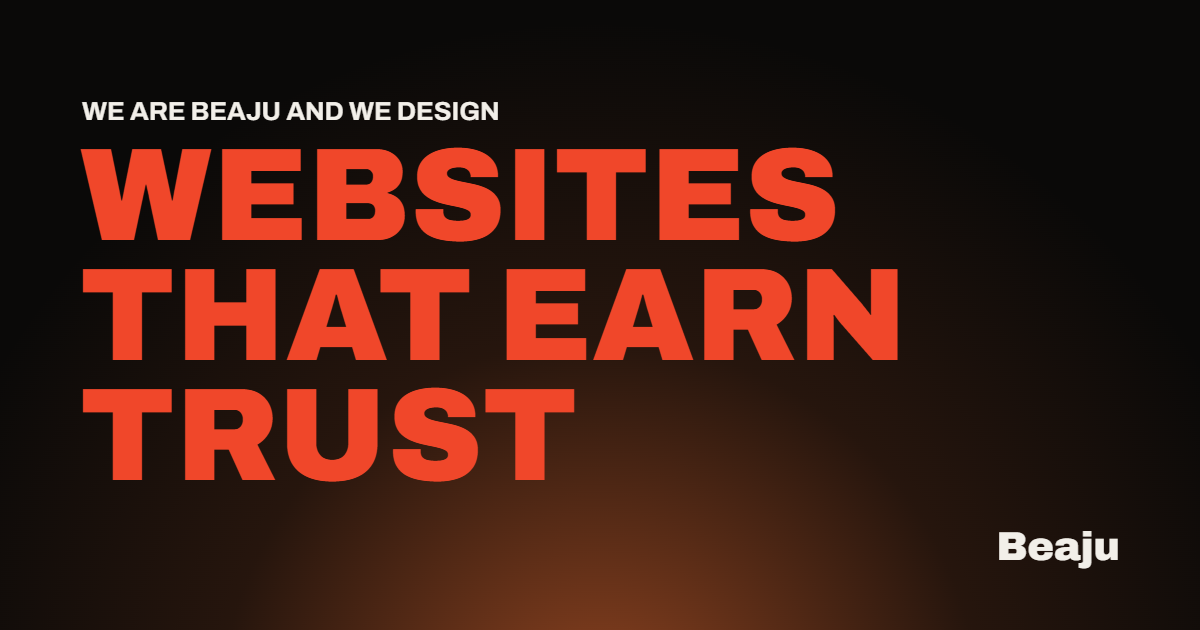
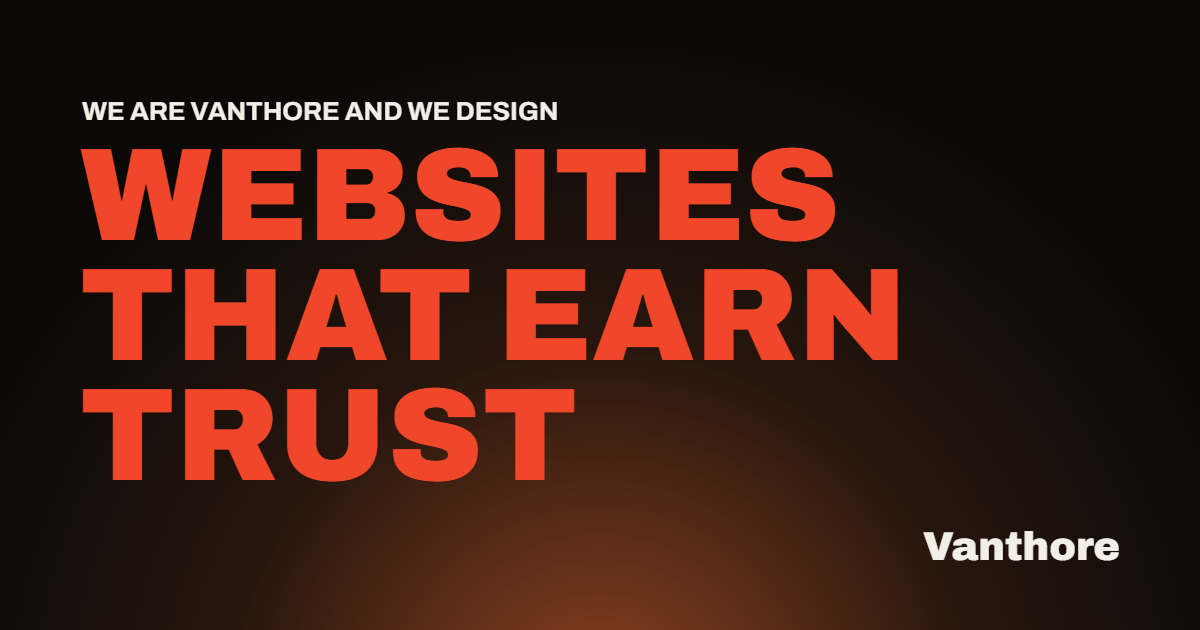
Rebrand Beaju to Vanthore
Renames the studio across all copy, all four locales, metadata and contact
details, and regenerates the social preview image (the old name was baked into
those pixels, so a text find-and-replace could not reach it).

- brand name in EN/LT/RU/PL locales, FAQ bank and README
- hello@beaju.com -> hello@vanthore.com
- beaju.com -> vanthore.com (title, description, canonical, OG/Twitter tags)
- instagram.com/beaju.studio -> instagram.com/vanthore.studio
- localStorage key beaju:lang -> vanthore:lang (resets saved language once)
- public/og-image.png regenerated with the new wordmark

Changed region(s): [[0.1542, 0.1508, 0.4625, 0.2111], [0.7708, 0.8444, 0.925, 0.9048]]

diff --git a/src/i18n/locales/ru.js b/src/i18n/locales/ru.js
@@ -13,15 +13,15 @@ export default {
   htmlLang: 'ru',
 
   meta: {
-    title: 'BEAJU — Премиальные сайты, написанные вручную',
+    title: 'VANTHORE — Премиальные сайты, написанные вручную',
     description:
-      'Beaju проектирует и вручную пишет премиальные сайты, которые быстро загружаются, выглядят дорого и вызывают доверие с первой секунды.',
+      'Vanthore проектирует и вручную пишет премиальные сайты, которые быстро загружаются, выглядят дорого и вызывают доверие с первой секунды.',
   },
 
   nav: { works: 'Работы', about: 'О нас', contact: 'Контакты' },
 
   hero: {
-    eyebrow: 'Мы Beaju, и мы создаём',
+    eyebrow: 'Мы Vanthore, и мы создаём',
     lines: ['Сайты', 'которые', 'вызывают доверие'],
     aria: 'Сайты, которые вызывают доверие',
   },
@@ -89,7 +89,7 @@ export default {
 
   about: {
     title: 'О нас',
-    lead: 'Уже три года Beaju проектирует и вручную пишет премиальные сайты, благодаря которым компании выглядят серьёзно: понятные, быстрые и сделанные осознанно. Мы делаем одно дело на высшем уровне и ничего больше. Именно поэтому результат лучше.',
+    lead: 'Уже три года Vanthore проектирует и вручную пишет премиальные сайты, благодаря которым компании выглядят серьёзно: понятные, быстрые и сделанные осознанно. Мы делаем одно дело на высшем уровне и ничего больше. Именно поэтому результат лучше.',
     years: 'Года опыта',
     projects: 'Проектов сдано',
     portrait: 'Портрет',
@@ -166,7 +166,7 @@ export default {
     cta: 'Записаться на 20-минутный звонок',
     ctaSubject: 'Запись на 20-минутный звонок',
     instagram: 'Instagram',
-    rights: '© 2026 Beaju · Все права защищены',
+    rights: '© 2026 Vanthore · Все права защищены',
     tagline: 'Пишем вручную. Никаких шаблонов.',
     privacy: 'Конфиденциальность',
     imprint: 'Реквизиты',
@@ -174,11 +174,11 @@ export default {
     close: 'Закрыть',
     privacyBody: [
       'Мы используем присланные вами данные (email и, если указан, телефон) только чтобы ответить на ваш запрос. Мы не продаём данные и не используем сторонние рекламные трекеры на этом сайте.',
-      'Чтобы узнать, какие данные мы храним, или попросить их удалить, напишите на hello@beaju.com.',
+      'Чтобы узнать, какие данные мы храним, или попросить их удалить, напишите на hello@vanthore.com.',
     ],
     privacyNote:
       'Временный текст — замените на согласованную политику конфиденциальности до запуска.',
-    imprintBody: 'Beaju — независимая веб-студия.',
+    imprintBody: 'Vanthore — независимая веб-студия.',
     imprintDetails: '[Название компании, регистрационный номер и адрес]',
     imprintNote:
       'Временный текст — добавьте реальные регистрационные данные до запуска.',

diff --git a/src/i18n/locales/lt.js b/src/i18n/locales/lt.js
@@ -14,15 +14,15 @@ export default {
   htmlLang: 'lt',
 
   meta: {
-    title: 'BEAJU — Ranka koduojamos premium svetainės',
+    title: 'VANTHORE — Ranka koduojamos premium svetainės',
     description:
-      'Beaju kuria ir ranka koduoja premium svetaines, kurios greitai kraunasi, atrodo brangiai ir pelno pasitikėjimą nuo pirmos sekundės.',
+      'Vanthore kuria ir ranka koduoja premium svetaines, kurios greitai kraunasi, atrodo brangiai ir pelno pasitikėjimą nuo pirmos sekundės.',
   },
 
   nav: { works: 'Darbai', about: 'Apie', contact: 'Kontaktai' },
 
   hero: {
-    eyebrow: 'Mes esame Beaju ir mes kuriame',
+    eyebrow: 'Mes esame Vanthore ir mes kuriame',
     lines: ['Svetaines', 'kurios pelno', 'pasitikėjimą'],
     aria: 'Svetaines, kurios pelno pasitikėjimą',
   },
@@ -90,7 +90,7 @@ export default {
 
   about: {
     title: 'Apie mus',
-    lead: 'Jau trejus metus Beaju kuria ir ranka koduoja premium svetaines, dėl kurių įmonės atrodo rimtai: intuityvias, greitas ir sukurtas su aiškiu tikslu. Darome vieną dalyką aukščiausiu lygiu ir nieko daugiau. Būtent dėl to darbas yra geresnis.',
+    lead: 'Jau trejus metus Vanthore kuria ir ranka koduoja premium svetaines, dėl kurių įmonės atrodo rimtai: intuityvias, greitas ir sukurtas su aiškiu tikslu. Darome vieną dalyką aukščiausiu lygiu ir nieko daugiau. Būtent dėl to darbas yra geresnis.',
     years: 'Metai patirties',
     projects: 'Įgyvendinti projektai',
     portrait: 'Portretas',
@@ -167,7 +167,7 @@ export default {
     cta: 'Rezervuoti 20 min. pokalbį',
     ctaSubject: '20 minučių pokalbio rezervacija',
     instagram: 'Instagram',
-    rights: '© 2026 Beaju · Visos teisės saugomos',
+    rights: '© 2026 Vanthore · Visos teisės saugomos',
     tagline: 'Koduojame ranka. Jokių šablonų.',
     privacy: 'Privatumas',
     imprint: 'Rekvizitai',
@@ -175,11 +175,11 @@ export default {
     close: 'Uždaryti',
     privacyBody: [
       'Jūsų atsiųstus duomenis (el. paštą ir, jei nurodėte, telefono numerį) naudojame tik tam, kad atsakytume į jūsų užklausą. Duomenų neparduodame ir šioje svetainėje nenaudojame trečiųjų šalių reklamos sekimo įrankių.',
-      'Norėdami sužinoti, kokius duomenis turime, arba paprašyti juos ištrinti, rašykite hello@beaju.com.',
+      'Norėdami sužinoti, kokius duomenis turime, arba paprašyti juos ištrinti, rašykite hello@vanthore.com.',
     ],
     privacyNote:
       'Laikinas tekstas — prieš paleidimą pakeiskite savo patvirtinta privatumo politika.',
-    imprintBody: 'Beaju — nepriklausoma interneto svetainių studija.',
+    imprintBody: 'Vanthore — nepriklausoma interneto svetainių studija.',
     imprintDetails: '[Registruotas įmonės pavadinimas, kodas ir adresas]',
     imprintNote:
       'Laikinas tekstas — prieš paleidimą įrašykite tikrus įmonės registracijos duomenis.',

diff --git a/src/i18n/locales/pl.js b/src/i18n/locales/pl.js
@@ -13,15 +13,15 @@ export default {
   htmlLang: 'pl',
 
   meta: {
-    title: 'BEAJU — Premium strony pisane ręcznie',
+    title: 'VANTHORE — Premium strony pisane ręcznie',
     description:
-      'Beaju projektuje i ręcznie koduje premium strony, które ładują się błyskawicznie, wyglądają drogo i budują zaufanie od pierwszej sekundy.',
+      'Vanthore projektuje i ręcznie koduje premium strony, które ładują się błyskawicznie, wyglądają drogo i budują zaufanie od pierwszej sekundy.',
   },
 
   nav: { works: 'Realizacje', about: 'O nas', contact: 'Kontakt' },
 
   hero: {
-    eyebrow: 'Jesteśmy Beaju i projektujemy',
+    eyebrow: 'Jesteśmy Vanthore i projektujemy',
     lines: ['Strony', 'które budują', 'zaufanie'],
     aria: 'Strony, które budują zaufanie',
   },
@@ -89,7 +89,7 @@ export default {
 
   about: {
     title: 'O nas',
-    lead: 'Od trzech lat Beaju projektuje i ręcznie koduje premium strony, dzięki którym firmy wyglądają poważnie: intuicyjne, szybkie i tworzone z intencją. Robimy jedną rzecz na najwyższym poziomie i nic poza tym. Właśnie dlatego efekt jest lepszy.',
+    lead: 'Od trzech lat Vanthore projektuje i ręcznie koduje premium strony, dzięki którym firmy wyglądają poważnie: intuicyjne, szybkie i tworzone z intencją. Robimy jedną rzecz na najwyższym poziomie i nic poza tym. Właśnie dlatego efekt jest lepszy.',
     years: 'Lata doświadczenia',
     projects: 'Zrealizowanych projektów',
     portrait: 'Portret',
@@ -166,7 +166,7 @@ export default {
     cta: 'Umów 20-minutową rozmowę',
     ctaSubject: 'Rezerwacja 20-minutowej rozmowy',
     instagram: 'Instagram',
-    rights: '© 2026 Beaju · Wszelkie prawa zastrzeżone',
+    rights: '© 2026 Vanthore · Wszelkie prawa zastrzeżone',
     tagline: 'Kodowane ręcznie. Nigdy z szablonu.',
     privacy: 'Prywatność',
     imprint: 'Dane firmy',
@@ -174,11 +174,11 @@ export default {
     close: 'Zamknij',
     privacyBody: [
       'Dane, które nam wysyłasz (e-mail i, jeśli podasz, numer telefonu), wykorzystujemy wyłącznie do odpowiedzi na Twoje zapytanie. Nie sprzedajemy danych i nie używamy na tej stronie zewnętrznych trackerów reklamowych.',
-      'Aby dowiedzieć się, jakie dane przechowujemy, lub poprosić o ich usunięcie, napisz na hello@beaju.com.',
+      'Aby dowiedzieć się, jakie dane przechowujemy, lub poprosić o ich usunięcie, napisz na hello@vanthore.com.',
     ],
     privacyNote:
       'Tekst tymczasowy — przed startem zastąp go zatwierdzoną polityką prywatności.',
-    imprintBody: 'Beaju — niezależne studio webowe.',
+    imprintBody: 'Vanthore — niezależne studio webowe.',
     imprintDetails: '[Nazwa firmy, numer rejestrowy i adres]',
     imprintNote:
       'Tekst tymczasowy — przed startem dodaj prawdziwe dane rejestrowe firmy.',

diff --git a/src/i18n/locales/en.js b/src/i18n/locales/en.js
@@ -5,15 +5,15 @@ export default {
   htmlLang: 'en',
 
   meta: {
-    title: 'BEAJU — Hand-Coded Premium Websites',
+    title: 'VANTHORE — Hand-Coded Premium Websites',
     description:
-      'Beaju designs and hand-codes premium websites that load fast, feel premium, and earn trust from the first second.',
+      'Vanthore designs and hand-codes premium websites that load fast, feel premium, and earn trust from the first second.',
   },
 
   nav: { works: 'Works', about: 'About', contact: 'Contact' },
 
   hero: {
-    eyebrow: 'We are Beaju and we design',
+    eyebrow: 'We are Vanthore and we design',
     lines: ['Websites', 'that earn', 'trust'],
     aria: 'Websites that earn trust',
   },
@@ -75,7 +75,7 @@ export default {
 
   about: {
     title: 'About Us',
-    lead: 'For three years, Beaju has designed and hand-coded premium websites that make companies look serious: intuitive, fast, and built with intent. We do one thing at the highest level, and nothing else. That focus is exactly why the work is better.',
+    lead: 'For three years, Vanthore has designed and hand-coded premium websites that make companies look serious: intuitive, fast, and built with intent. We do one thing at the highest level, and nothing else. That focus is exactly why the work is better.',
     years: 'Years of Experience',
     projects: 'Projects Delivered',
     portrait: 'Portrait',
@@ -152,7 +152,7 @@ export default {
     cta: 'Book a 20-minute call',
     ctaSubject: 'Booking a 20-minute call',
     instagram: 'Instagram',
-    rights: '© 2026 Beaju · All rights reserved',
+    rights: '© 2026 Vanthore · All rights reserved',
     tagline: 'Hand-coded, never templated.',
     privacy: 'Privacy',
     imprint: 'Imprint',
@@ -160,11 +160,11 @@ export default {
     close: 'Close',
     privacyBody: [
       'We only use the details you send us (your email and, if provided, your phone number) to reply to your enquiry. We do not sell your data and we don’t run third-party advertising trackers on this site.',
-      'To ask what we hold or request deletion, email hello@beaju.com.',
+      'To ask what we hold or request deletion, email hello@vanthore.com.',
     ],
     privacyNote:
       'Placeholder text — replace with your reviewed privacy policy before launch.',
-    imprintBody: 'Beaju — independent web studio.',
+    imprintBody: 'Vanthore — independent web studio.',
     imprintDetails: '[Registered company name, number & address]',
     imprintNote:
       'Placeholder — add your real business/registration details before launch.',

diff --git a/index.html b/index.html
@@ -3,25 +3,25 @@
   <head>
     <meta charset="UTF-8" />
     <meta name="viewport" content="width=device-width, initial-scale=1.0" />
-    <title>BEAJU — Hand-Coded Premium Websites</title>
-    <meta name="description" content="Beaju designs and hand-codes premium websites that load fast, feel premium, and earn trust from the first second." />
-    <link rel="canonical" href="https://beaju.com/" />
+    <title>VANTHORE — Hand-Coded Premium Websites</title>
+    <meta name="description" content="Vanthore designs and hand-codes premium websites that load fast, feel premium, and earn trust from the first second." />
+    <link rel="canonical" href="https://vanthore.com/" />
 
     <!-- Open Graph / social sharing (update the URL/image host once deployed) -->
     <meta property="og:type" content="website" />
-    <meta property="og:site_name" content="Beaju" />
-    <meta property="og:title" content="BEAJU — Hand-Coded Premium Websites" />
+    <meta property="og:site_name" content="Vanthore" />
+    <meta property="og:title" content="VANTHORE — Hand-Coded Premium Websites" />
     <meta property="og:description" content="We design and hand-code premium websites that load fast, feel premium, and earn trust from the first second." />
-    <meta property="og:url" content="https://beaju.com/" />
-    <meta property="og:image" content="https://beaju.com/og-image.png" />
+    <meta property="og:url" content="https://vanthore.com/" />
+    <meta property="og:image" content="https://vanthore.com/og-image.png" />
     <meta property="og:image:width" content="1200" />
     <meta property="og:image:height" content="630" />
-    <meta property="og:image:alt" content="Beaju — websites that earn trust" />
+    <meta property="og:image:alt" content="Vanthore — websites that earn trust" />
 
     <meta name="twitter:card" content="summary_large_image" />
-    <meta name="twitter:title" content="BEAJU — Hand-Coded Premium Websites" />
+    <meta name="twitter:title" content="VANTHORE — Hand-Coded Premium Websites" />
     <meta name="twitter:description" content="We design and hand-code premium websites that load fast, feel premium, and earn trust from the first second." />
-    <meta name="twitter:image" content="https://beaju.com/og-image.png" />
+    <meta name="twitter:image" content="https://vanthore.com/og-image.png" />
 
     <link rel="preconnect" href="https://fonts.googleapis.com" />
     <link rel="preconnect" href="https://fonts.gstatic.com" crossorigin />

diff --git a/src/components/Contact.jsx b/src/components/Contact.jsx
@@ -2,10 +2,10 @@ import { useEffect, useState } from 'react'
 import { motion, AnimatePresence } from 'framer-motion'
 import { useI18n } from '../i18n/index.jsx'
 
-const EMAIL = 'hello@beaju.com'
+const EMAIL = 'hello@vanthore.com'
 const PHONE = '+370 647 99015'
 const PHONE_HREF = 'tel:+37064799015'
-const INSTAGRAM = 'https://www.instagram.com/beaju.studio/'
+const INSTAGRAM = 'https://www.instagram.com/vanthore.studio/'
 
 const reveal = {
   hidden: { opacity: 0, y: 40 },
@@ -95,9 +95,9 @@ export default function Contact() {
         whileInView="show"
         viewport={{ once: true }}
       >
-        {/* Beaju wordmark — swap for a real logo SVG when available */}
+        {/* Vanthore wordmark — swap for a real logo SVG when available */}
         <span className="contact__logo">
-          Beaju<sup>®</sup>
+          Vanthore<sup>®</sup>
         </span>
         <span className="contact__status">
           <span className="live" aria-hidden="true" />

diff --git a/src/components/SocialRail.jsx b/src/components/SocialRail.jsx
@@ -120,16 +120,16 @@ export default function SocialRail() {
         label={t.rail.email}
         labels={t.rail}
         icon={<MailIcon />}
-        value="hello@beaju.com"
+        value="hello@vanthore.com"
         open={open}
         setOpen={setOpen}
       />
       <a
         className="rail__btn"
-        href="https://www.instagram.com/beaju.studio/"
+        href="https://www.instagram.com/vanthore.studio/"
         target="_blank"
         rel="noreferrer"
-        aria-label={`Beaju — ${t.rail.instagram}`}
+        aria-label={`Vanthore — ${t.rail.instagram}`}
         data-cursor={t.rail.instagram}
       >
         <InstagramIcon />

diff --git a/src/data/faq.lt.js b/src/data/faq.lt.js
@@ -14,7 +14,7 @@ export const faqCategories = {
 export const faqData = {
   basics: [
     {
-      q: 'Ką tiksliai veikia Beaju?',
+      q: 'Ką tiksliai veikia Vanthore?',
       a: 'Kuriame ir ranka koduojame premium svetaines: rinkodaros puslapius, produktų svetaines, el. parduotuves ir web aplikacijas. Viena sritis, atliekama aukščiausiu lygiu, ir nieko daugiau. Būtent dėl šio susitelkimo darbas yra geresnis.',
       tags: 'paslaugos ką darote agentūra studija services',
     },

diff --git a/src/data/faq.js b/src/data/faq.js
@@ -14,7 +14,7 @@ export const faqCategories = {
 export const faqData = {
   basics: [
     {
-      q: 'What exactly does Beaju do?',
+      q: 'What exactly does Vanthore do?',
       a: 'We design and hand-code premium websites: marketing sites, product sites, online stores and web apps. One discipline, done at the highest level, and nothing else. That focus is the reason the work is better.',
       tags: 'services what you do agency studio',
     },

diff --git a/src/i18n/index.jsx b/src/i18n/index.jsx
@@ -10,7 +10,7 @@ export const localeList = [en, lt, ru, pl].map((l) => ({
   label: l.label,
 }))
 
-const STORAGE_KEY = 'beaju:lang'
+const STORAGE_KEY = 'vanthore:lang'
 
 // Geographic hint: the visitor's IANA timezone maps to a likely language.
 // This is privacy-preserving (no IP lookup, no third-party request).

diff --git a/src/data/content.js b/src/data/content.js
@@ -1,4 +1,4 @@
-// Content sourced from beaju-context.docx — Beaju: hand-coded premium websites.
+// Content sourced from the client brief — Vanthore: hand-coded premium websites.
 // Work screenshots are solid-black placeholders — swap `image` for real website
 // photos, and `url` for live links, later.
 

diff --git a/README.md b/README.md
@@ -1,6 +1,6 @@
-# Beaju — portfolio landing page
+# Vanthore — portfolio landing page
 
-Single-page marketing site for **Beaju**, a studio that designs and hand-codes
+Single-page marketing site for **Vanthore**, a studio that designs and hand-codes
 premium websites. Editorial/illustrative tone, dark theme, heavy on
 scroll-driven motion.
 
@@ -118,9 +118,9 @@ left column crossfades to that step's image and the active step name turns red.
   this public repo never shows a fabricated quote attributed to a real client.
   **Replace with real attributed testimonials, or delete the section, before
   launch.**
-- **Logo** — Contact uses a text wordmark `Beaju®`; swap for a real SVG.
+- **Logo** — Contact uses a text wordmark `Vanthore®`; swap for a real SVG.
 - **OG image** — auto-generated placeholder; `index.html` OG tags point at
-  `https://beaju.com/...` (update host on deploy).
+  `https://vanthore.com/...` (update host on deploy).
 - **Legal** — Privacy + Imprint modal copy in `Contact.jsx` is placeholder.
   Needs real reviewed policy and company registration details.
 - **Availability line** — "Q3 2026" in `locales/*.js` (`contact.availability`)
